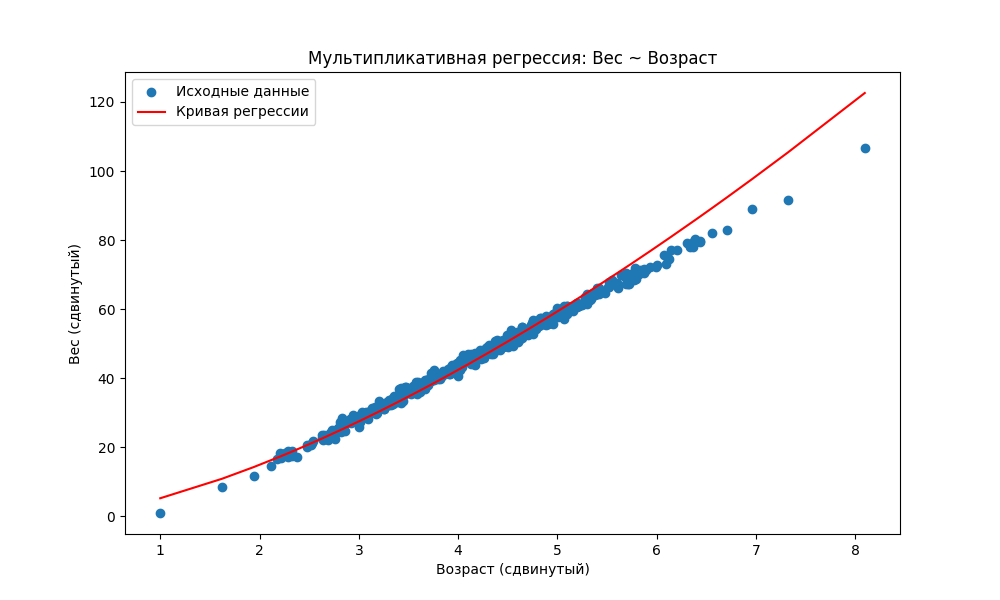
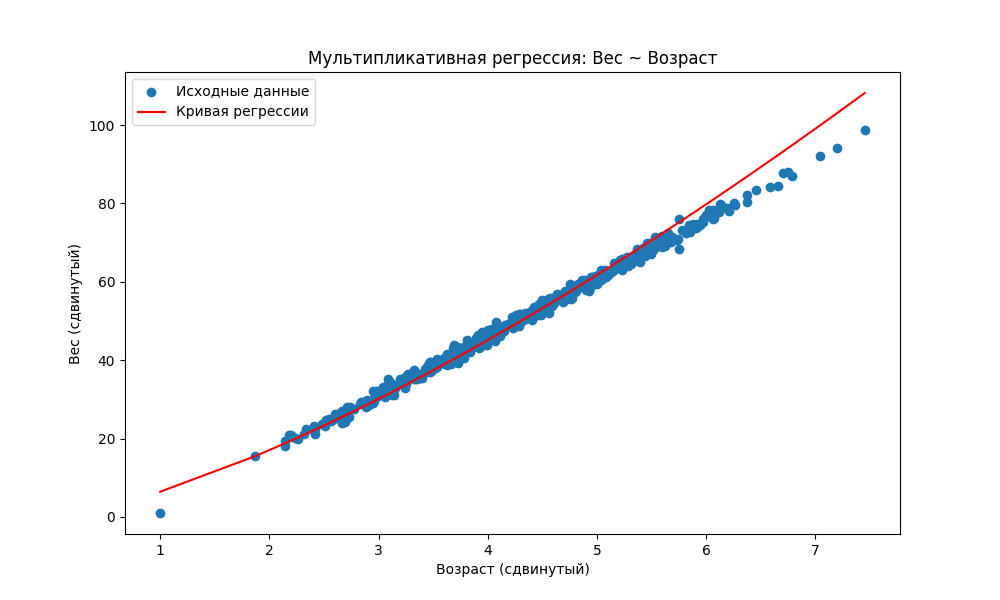
Fix lab06

diff --git a/labs/06/src/part1.py b/labs/06/src/part1.py
@@ -13,7 +13,7 @@ class LinearRegResult:
 
 
 # 1. Генерация данных
-def generate_data(seed: int = 42) -> Point[np.ndarray]:
+def generate_data(seed: int = 89) -> Point[np.ndarray]:
     np.random.seed(seed)
 
     n = 500
